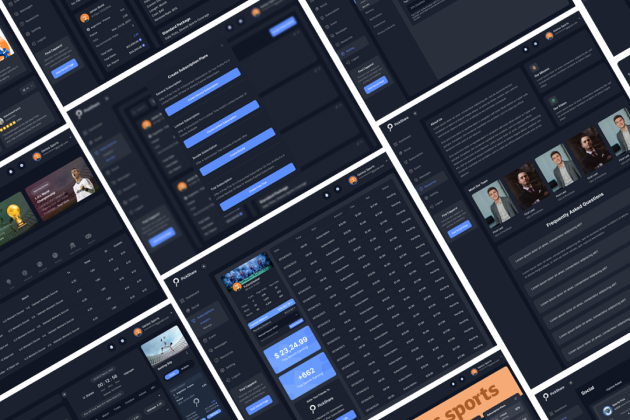
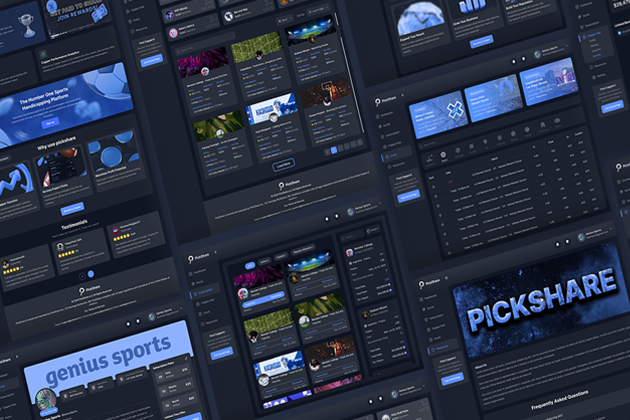
new cover image, added to case study as well

diff --git a/src/Pages/Portfolio/CaseStudy1.jsx b/src/Pages/Portfolio/CaseStudy1.jsx
@@ -9,6 +9,7 @@ import Image6 from "../../Assets/Project1.6.png";
 import Image7 from "../../Assets/Project1.7.png";
 import Image8 from "../../Assets/Project1.8.png";
 import Image9 from "../../Assets/Project1.9.png";
+import Image10 from "../../Assets/Project1.10.png";
 
 const CaseStudy1 = () => {
     return (
@@ -57,6 +58,9 @@ const CaseStudy1 = () => {
                     <div className='col-md-12 mb-1'>
                         <img src={Image9} alt='Project 9' className='img-fluid mx-auto d-block' style={{ margin: '0.5em', width: "97%" }} />
                     </div>
+                    <div className='col-md-12 mb-1'>
+                    <img src={Image10} alt='Project 10' className='img-fluid mx-auto d-block' style={{ margin: '0.5em', width: "97%" }} />
+                    </div>         
                 </div>
             </div>
         </div>
